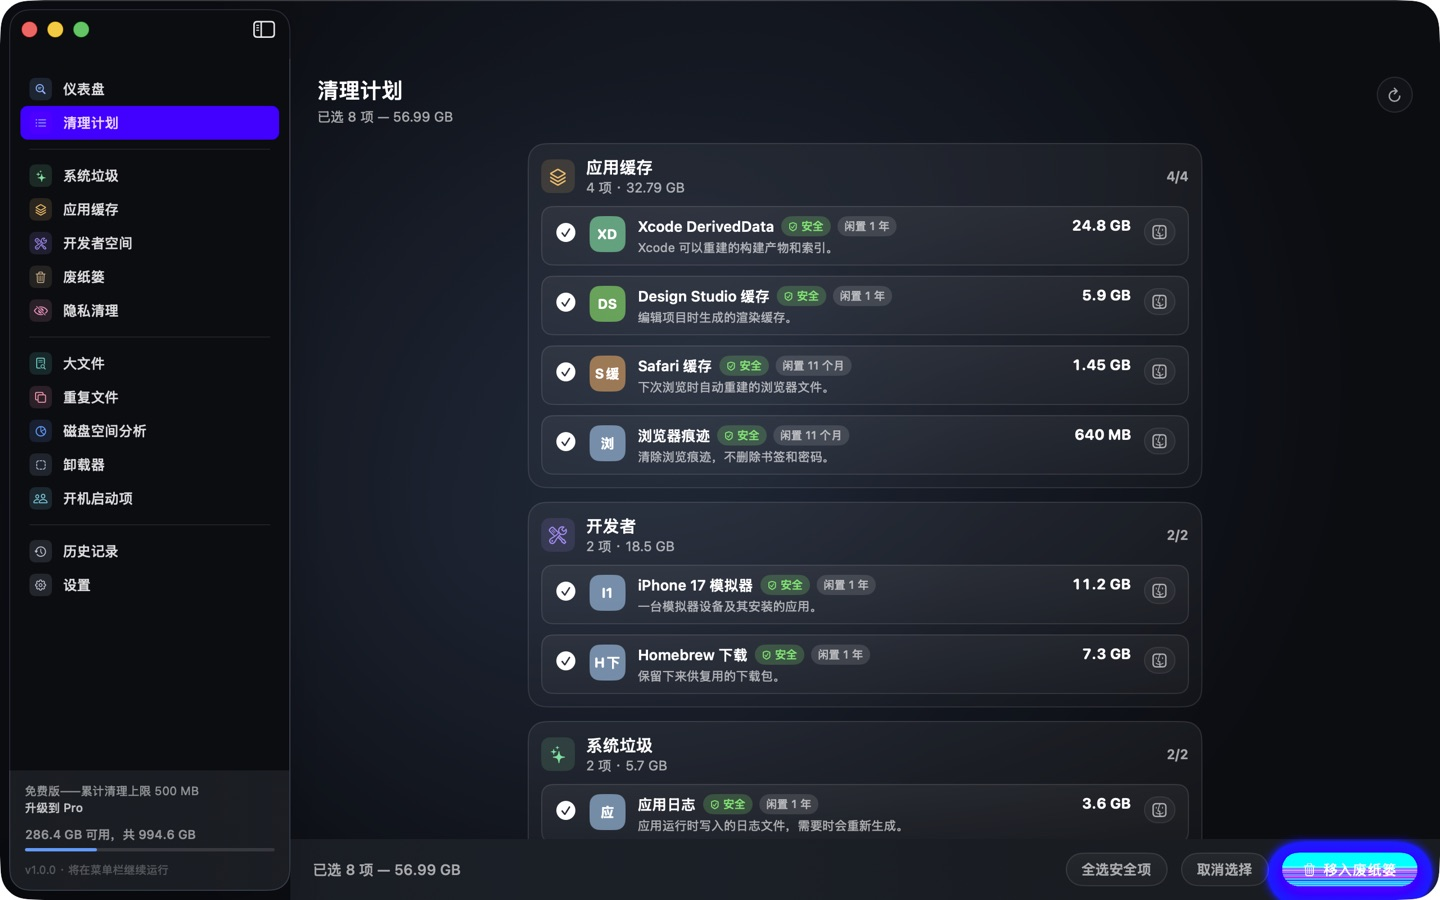
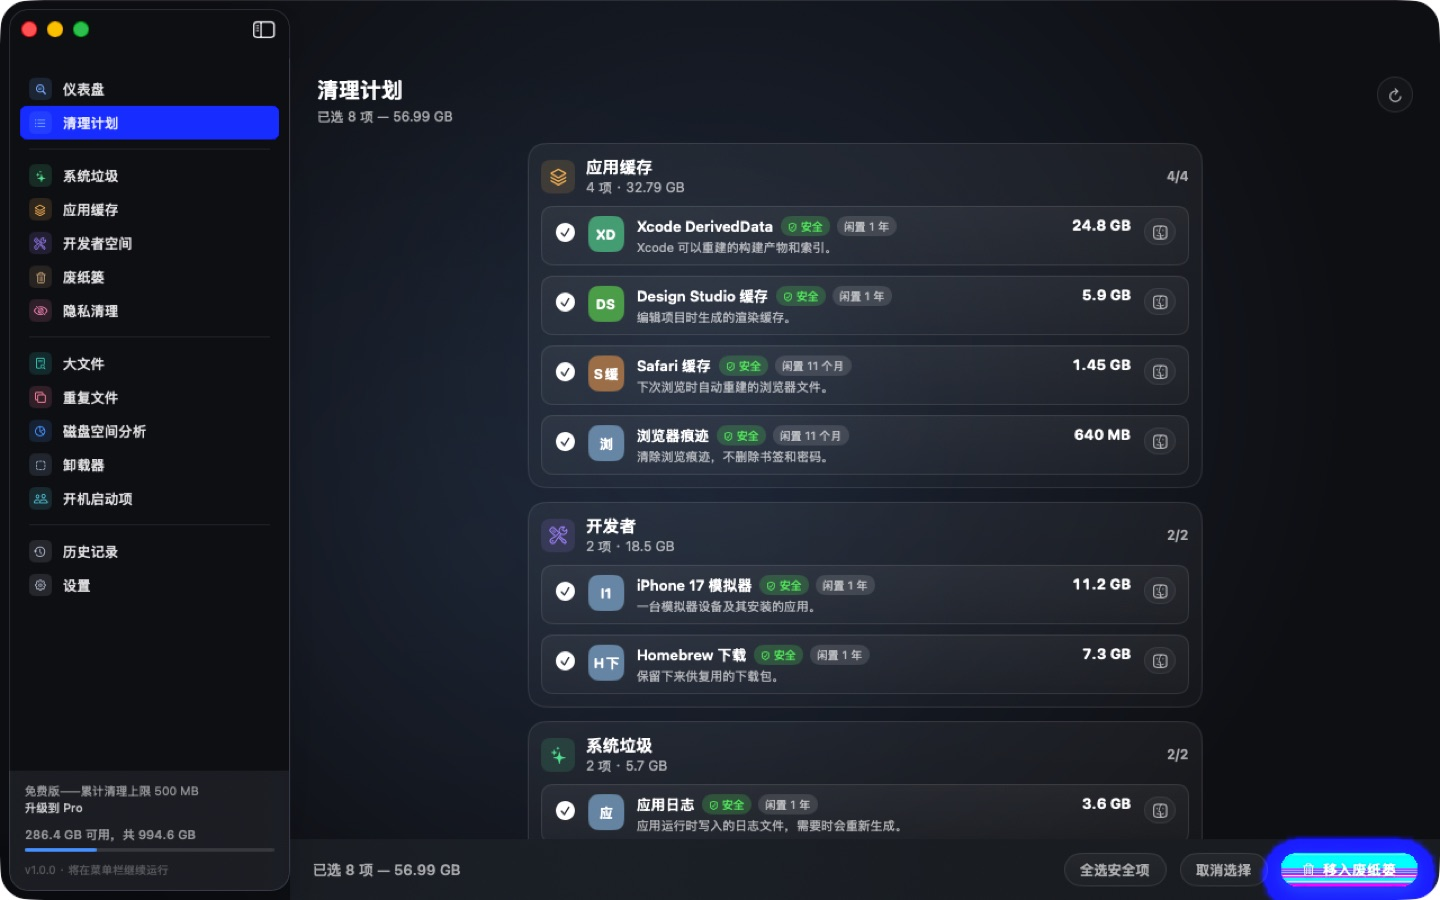
site: truly dark screenshots — previous dark set was corrupted by a stale app instance during capture; regenerated from a verified clean pipeline run

diff --git a/en/index.html b/en/index.html
@@ -57,7 +57,7 @@
       </span>
     </div>
     <figure class="hero-shot">
-      <img src="../assets/en/01-dashboard.jpg?v=dark" alt="Mac House Clean main window: a central ring gauge showing disk usage and cleanable space" width="1440" height="900" loading="eager">
+      <img src="../assets/en/01-dashboard.jpg?v=dark2" alt="Mac House Clean main window: a central ring gauge showing disk usage and cleanable space" width="1440" height="900" loading="eager">
     </figure>
   </div>
 </header>
@@ -108,10 +108,10 @@
     <h2>Take a look</h2>
     <p class="section-sub">Real interface, straight from the app.</p>
     <div class="shots">
-      <figure class="shot"><img src="../assets/en/02-clean-plan.jpg?v=dark" alt="Clean plan: cleanable items and sizes grouped by category" loading="lazy"></figure>
-      <figure class="shot"><img src="../assets/en/05-duplicates.jpg?v=dark" alt="Duplicates: byte-verified grouped list" loading="lazy"></figure>
-      <figure class="shot"><img src="../assets/en/06-uninstaller.jpg?v=dark" alt="Uninstaller: app list with leftover-file preview" loading="lazy"></figure>
-      <figure class="shot"><img src="../assets/en/07-startup-items.jpg?v=dark" alt="Startup items: launch-service toggles" loading="lazy"></figure>
+      <figure class="shot"><img src="../assets/en/02-clean-plan.jpg?v=dark2" alt="Clean plan: cleanable items and sizes grouped by category" loading="lazy"></figure>
+      <figure class="shot"><img src="../assets/en/05-duplicates.jpg?v=dark2" alt="Duplicates: byte-verified grouped list" loading="lazy"></figure>
+      <figure class="shot"><img src="../assets/en/06-uninstaller.jpg?v=dark2" alt="Uninstaller: app list with leftover-file preview" loading="lazy"></figure>
+      <figure class="shot"><img src="../assets/en/07-startup-items.jpg?v=dark2" alt="Startup items: launch-service toggles" loading="lazy"></figure>
     </div>
   </div>
 </section>

diff --git a/index.html b/index.html
@@ -57,7 +57,7 @@
       </span>
     </div>
     <figure class="hero-shot">
-      <img src="assets/01-dashboard.jpg?v=dark" alt="Mac House Clean 主界面：中央环形仪表展示磁盘使用与可清理空间" width="1440" height="900" loading="eager">
+      <img src="assets/01-dashboard.jpg?v=dark2" alt="Mac House Clean 主界面：中央环形仪表展示磁盘使用与可清理空间" width="1440" height="900" loading="eager">
     </figure>
   </div>
 </header>
@@ -108,10 +108,10 @@
     <h2>先看一眼</h2>
     <p class="section-sub">真实界面，来自应用截图。</p>
     <div class="shots">
-      <figure class="shot"><img src="assets/02-clean-plan.jpg?v=dark" alt="清理计划：按类别汇总的可清理项与体积" loading="lazy"></figure>
-      <figure class="shot"><img src="assets/05-duplicates.jpg?v=dark" alt="重复文件：逐字节校验的分组列表" loading="lazy"></figure>
-      <figure class="shot"><img src="assets/06-uninstaller.jpg?v=dark" alt="卸载器：应用列表与残留文件预览" loading="lazy"></figure>
-      <figure class="shot"><img src="assets/07-startup-items.jpg?v=dark" alt="启动项：开机自启服务开关" loading="lazy"></figure>
+      <figure class="shot"><img src="assets/02-clean-plan.jpg?v=dark2" alt="清理计划：按类别汇总的可清理项与体积" loading="lazy"></figure>
+      <figure class="shot"><img src="assets/05-duplicates.jpg?v=dark2" alt="重复文件：逐字节校验的分组列表" loading="lazy"></figure>
+      <figure class="shot"><img src="assets/06-uninstaller.jpg?v=dark2" alt="卸载器：应用列表与残留文件预览" loading="lazy"></figure>
+      <figure class="shot"><img src="assets/07-startup-items.jpg?v=dark2" alt="启动项：开机自启服务开关" loading="lazy"></figure>
     </div>
   </div>
 </section>
